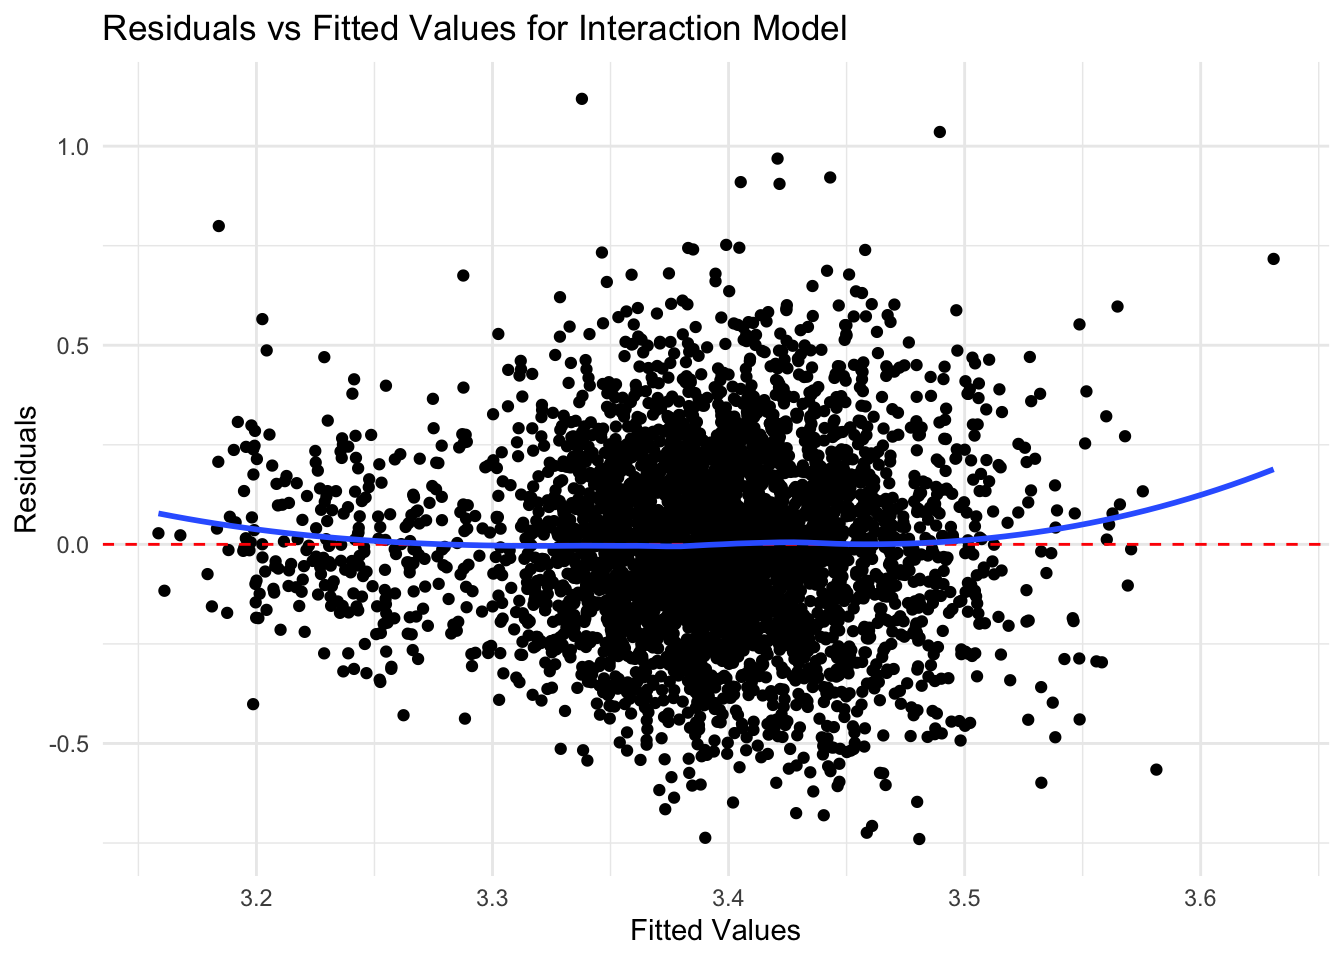
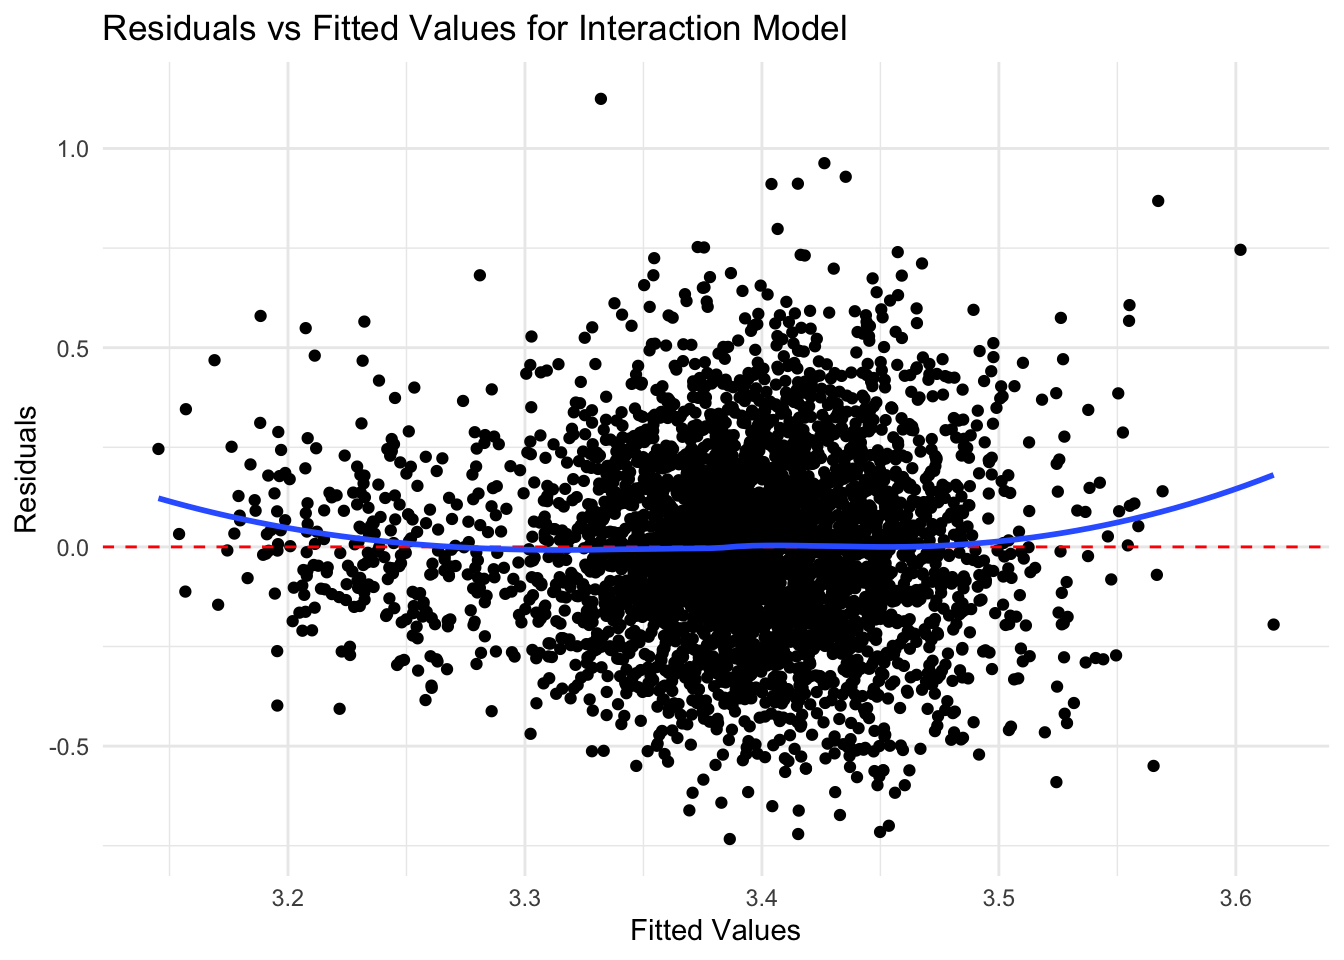
proof read 5.0

diff --git a/p8105-Final-model-analysis.html b/p8105-Final-model-analysis.html
@@ -450,9 +450,9 @@ class="section level2">
 <pre><code>## # A tibble: 3 × 2
 ##   model_type    m_rmse
 ##   &lt;chr&gt;          &lt;dbl&gt;
-## 1 fast_adjusted  0.364
-## 2 fast_crude     0.582
-## 3 fast_inter     0.430</code></pre>
+## 1 fast_adjusted  0.320
+## 2 fast_crude     0.490
+## 3 fast_inter     0.342</code></pre>
 <pre class="r"><code>cv_results |&gt; 
   select(starts_with(&quot;rmse&quot;)) |&gt; 
   pivot_longer(
@@ -494,8 +494,6 @@ ggplot(obesity, aes(x = sedentary_activity)) +
   geom_density(alpha = 0.2, adjust = 1/5) + 
   labs(title = &quot;Distribution of Sedentary Activity&quot;, x = &quot;Sedentary Activity&quot;, y = &quot;Density&quot;) +
   theme_minimal()</code></pre>
-<pre><code>## Warning: Removed 3879 rows containing non-finite values (`stat_bin()`).</code></pre>
-<pre><code>## Warning: Removed 3879 rows containing non-finite values (`stat_density()`).</code></pre>
 <p><img src="p8105-Final-model-analysis_files/figure-html/distribution-1.png" width="672" /></p>
 <div id="step-1-model-building-for-sedentary-activity-with-logbmi"
 class="section level3">
@@ -536,7 +534,7 @@ cv_results_sedentary =
 <div id="summary-of-cross-validation-results--sendendary-activity"
 class="section level2">
 <h2>Summary of Cross validation Results- Sendendary Activity</h2>
-<pre class="r"><code>cv_results_sedentary |&gt; 
+<pre class="r"><code>rmse_summary = cv_results_sedentary |&gt; 
   select(starts_with(&quot;rmse_sed&quot;)) |&gt; 
   pivot_longer(
     everything(),
@@ -545,13 +543,31 @@ class="section level2">
     names_prefix = &quot;rmse_sed_&quot;
   ) |&gt; 
   group_by(model_type) |&gt; 
-  summarize(m_rmse = mean(rmse))</code></pre>
-<pre><code>## # A tibble: 3 × 2
-##   model_type m_rmse
-##   &lt;chr&gt;       &lt;dbl&gt;
-## 1 adjusted    0.235
-## 2 crude       0.237
-## 3 inter       0.235</code></pre>
+  summarize(m_rmse = mean(rmse))
+kable(rmse_summary, format = &quot;markdown&quot;, caption = &quot;Summary of RMSE for Sedentary Models&quot;)</code></pre>
+<table>
+<caption>Summary of RMSE for Sedentary Models</caption>
+<thead>
+<tr class="header">
+<th align="left">model_type</th>
+<th align="right">m_rmse</th>
+</tr>
+</thead>
+<tbody>
+<tr class="odd">
+<td align="left">adjusted</td>
+<td align="right">0.2354447</td>
+</tr>
+<tr class="even">
+<td align="left">crude</td>
+<td align="right">0.2374056</td>
+</tr>
+<tr class="odd">
+<td align="left">inter</td>
+<td align="right">0.2353406</td>
+</tr>
+</tbody>
+</table>
 <p>In the context of these models, a lower RMSE indicates a more
 accurate prediction of BMI from the predictors used in the model.</p>
 <p>The cross-validation results show that the mean RMSE for the adjusted
@@ -609,31 +625,31 @@ print(best_model_summary)</code></pre>
 ## 
 ## Residuals:
 ##      Min       1Q   Median       3Q      Max 
-## -0.73996 -0.15082 -0.00714  0.14656  1.11879 
+## -0.73319 -0.15406 -0.00803  0.14553  1.12462 
 ## 
 ## Coefficients:
 ##                                            Estimate Std. Error t value Pr(&gt;|t|)
-## (Intercept)                               3.370e+00  1.869e-02 180.357  &lt; 2e-16
-## sedentary_activity                        1.941e-04  1.905e-05  10.192  &lt; 2e-16
-## age                                       1.445e-04  2.415e-04   0.598  0.54966
-## genderMale                               -4.504e-02  7.456e-03  -6.042 1.66e-09
-## marital_statusNever married              -1.633e-02  1.051e-02  -1.553  0.12051
-## marital_statusWidowed/Divorced/Separated -2.837e-02  9.568e-03  -2.965  0.00305
-## raceMexican American                     -5.055e-04  1.260e-02  -0.040  0.96801
-## raceOther                                -1.697e-01  1.561e-02 -10.876  &lt; 2e-16
-## raceOther Hispanic                       -9.231e-03  1.328e-02  -0.695  0.48711
-## raceWhite                                -3.620e-02  9.268e-03  -3.906 9.52e-05
-## educationHigh school graduate             1.310e-02  1.168e-02   1.122  0.26213
-## educationLess than 9th grade              1.352e-02  1.589e-02   0.851  0.39489
-## educationSome college or AA degree        1.478e-02  1.153e-02   1.282  0.19989
-## income_to_poverty                        -8.980e-04  2.743e-03  -0.327  0.74336
+## (Intercept)                               3.382e+00  1.881e-02 179.851  &lt; 2e-16
+## sedentary_activity                        1.768e-04  1.908e-05   9.267  &lt; 2e-16
+## age                                       5.789e-05  2.437e-04   0.238 0.812250
+## genderMale                               -4.739e-02  7.520e-03  -6.302 3.26e-10
+## marital_statusNever married              -2.811e-02  1.076e-02  -2.611 0.009048
+## marital_statusWidowed/Divorced/Separated -3.198e-02  9.614e-03  -3.326 0.000888
+## raceMexican American                     -6.548e-04  1.272e-02  -0.051 0.958938
+## raceOther                                -1.754e-01  1.546e-02 -11.344  &lt; 2e-16
+## raceOther Hispanic                       -1.627e-02  1.339e-02  -1.215 0.224283
+## raceWhite                                -3.604e-02  9.331e-03  -3.863 0.000114
+## educationHigh school graduate             1.395e-02  1.186e-02   1.176 0.239522
+## educationLess than 9th grade              1.640e-02  1.619e-02   1.013 0.311228
+## educationSome college or AA degree        1.043e-02  1.175e-02   0.888 0.374786
+## income_to_poverty                         9.416e-04  2.748e-03   0.343 0.731880
 ##                                             
 ## (Intercept)                              ***
 ## sedentary_activity                       ***
 ## age                                         
 ## genderMale                               ***
-## marital_statusNever married                 
-## marital_statusWidowed/Divorced/Separated ** 
+## marital_statusNever married              ** 
+## marital_statusWidowed/Divorced/Separated ***
 ## raceMexican American                        
 ## raceOther                                ***
 ## raceOther Hispanic                          
@@ -645,10 +661,10 @@ print(best_model_summary)</code></pre>
 ## ---
 ## Signif. codes:  0 &#39;***&#39; 0.001 &#39;**&#39; 0.01 &#39;*&#39; 0.05 &#39;.&#39; 0.1 &#39; &#39; 1
 ## 
-## Residual standard error: 0.2333 on 4039 degrees of freedom
-##   (5057 observations deleted due to missingness)
-## Multiple R-squared:  0.06322,    Adjusted R-squared:  0.06021 
-## F-statistic: 20.97 on 13 and 4039 DF,  p-value: &lt; 2.2e-16</code></pre>
+## Residual standard error: 0.2346 on 4023 degrees of freedom
+##   (5073 observations deleted due to missingness)
+## Multiple R-squared:  0.06215,    Adjusted R-squared:  0.05912 
+## F-statistic: 20.51 on 13 and 4023 DF,  p-value: &lt; 2.2e-16</code></pre>
 </div>
 </div>
 <div id="residual-plot-for-adjusted-model---sedentary-activity"
@@ -768,9 +784,9 @@ Frozen Fast Food Frequency</h1>
 <pre><code>## # A tibble: 3 × 2
 ##   model_type m_rmse
 ##   &lt;chr&gt;       &lt;dbl&gt;
-## 1 adjusted    0.259
+## 1 adjusted    0.255
 ## 2 crude       0.309
-## 3 inter       0.339</code></pre>
+## 3 inter       0.341</code></pre>
 <p>According to the violin plot of the RMSE distribution for each model,
 the adjusted model consistently shows a concentrated distribution of
 lower RMSE values, meaning it has a superior predictive performance
@@ -845,34 +861,34 @@ print(best_adjusted_model_summary)</code></pre>
 ## 
 ## Residuals:
 ##      Min       1Q   Median       3Q      Max 
-## -0.78177 -0.15790 -0.00878  0.14899  1.09470 
+## -0.77950 -0.16042 -0.00957  0.14804  1.08649 
 ## 
 ## Coefficients:
 ##                                            Estimate Std. Error t value Pr(&gt;|t|)
-## (Intercept)                               3.4158950  0.0184767 184.875  &lt; 2e-16
-## freq_frozen                              -0.0017836  0.0006329  -2.818  0.00486
-## age                                       0.0002014  0.0002432   0.828  0.40756
-## genderMale                               -0.0371845  0.0075392  -4.932 8.46e-07
-## marital_statusNever married              -0.0185917  0.0106341  -1.748  0.08049
-## marital_statusWidowed/Divorced/Separated -0.0198407  0.0096186  -2.063  0.03920
-## raceMexican American                     -0.0071902  0.0127329  -0.565  0.57231
-## raceOther                                -0.1764792  0.0153877 -11.469  &lt; 2e-16
-## raceOther Hispanic                       -0.0300902  0.0135577  -2.219  0.02651
-## raceWhite                                -0.0304570  0.0094179  -3.234  0.00123
-## educationHigh school graduate             0.0162683  0.0118752   1.370  0.17078
-## educationLess than 9th grade              0.0016897  0.0162329   0.104  0.91710
-## educationSome college or AA degree        0.0294315  0.0117265   2.510  0.01212
-## income_to_poverty                         0.0008610  0.0027255   0.316  0.75208
+## (Intercept)                               3.425e+00  1.852e-02 184.908  &lt; 2e-16
+## freq_frozen                              -5.864e-05  3.588e-05  -1.634  0.10229
+## age                                       2.015e-04  2.478e-04   0.813  0.41612
+## genderMale                               -4.636e-02  7.628e-03  -6.078 1.33e-09
+## marital_statusNever married              -2.089e-02  1.082e-02  -1.931  0.05360
+## marital_statusWidowed/Divorced/Separated -2.197e-02  9.743e-03  -2.255  0.02418
+## raceMexican American                     -1.438e-02  1.289e-02  -1.116  0.26459
+## raceOther                                -1.825e-01  1.562e-02 -11.685  &lt; 2e-16
+## raceOther Hispanic                       -3.588e-02  1.347e-02  -2.664  0.00775
+## raceWhite                                -3.019e-02  9.437e-03  -3.199  0.00139
+## educationHigh school graduate             8.532e-03  1.201e-02   0.710  0.47745
+## educationLess than 9th grade              1.591e-05  1.640e-02   0.001  0.99923
+## educationSome college or AA degree        2.756e-02  1.188e-02   2.321  0.02035
+## income_to_poverty                         8.040e-04  2.780e-03   0.289  0.77244
 ##                                             
 ## (Intercept)                              ***
-## freq_frozen                              ** 
+## freq_frozen                                 
 ## age                                         
 ## genderMale                               ***
 ## marital_statusNever married              .  
 ## marital_statusWidowed/Divorced/Separated *  
 ## raceMexican American                        
 ## raceOther                                ***
-## raceOther Hispanic                       *  
+## raceOther Hispanic                       ** 
 ## raceWhite                                ** 
 ## educationHigh school graduate               
 ## educationLess than 9th grade                
@@ -881,10 +897,10 @@ print(best_adjusted_model_summary)</code></pre>
 ## ---
 ## Signif. codes:  0 &#39;***&#39; 0.001 &#39;**&#39; 0.01 &#39;*&#39; 0.05 &#39;.&#39; 0.1 &#39; &#39; 1
 ## 
-## Residual standard error: 0.2365 on 4067 degrees of freedom
-##   (5029 observations deleted due to missingness)
-## Multiple R-squared:  0.04339,    Adjusted R-squared:  0.04033 
-## F-statistic: 14.19 on 13 and 4067 DF,  p-value: &lt; 2.2e-16</code></pre>
+## Residual standard error: 0.2391 on 4065 degrees of freedom
+##   (5031 observations deleted due to missingness)
+## Multiple R-squared:  0.04484,    Adjusted R-squared:  0.04178 
+## F-statistic: 14.68 on 13 and 4065 DF,  p-value: &lt; 2.2e-16</code></pre>
 <p>The best-fitting model, based on the cross-validation results, is the
 adjusted model. Thus, a detailed examination was conducted, and its
 summary statistics indicate that: The Intercept is estimated at 3.409 on
